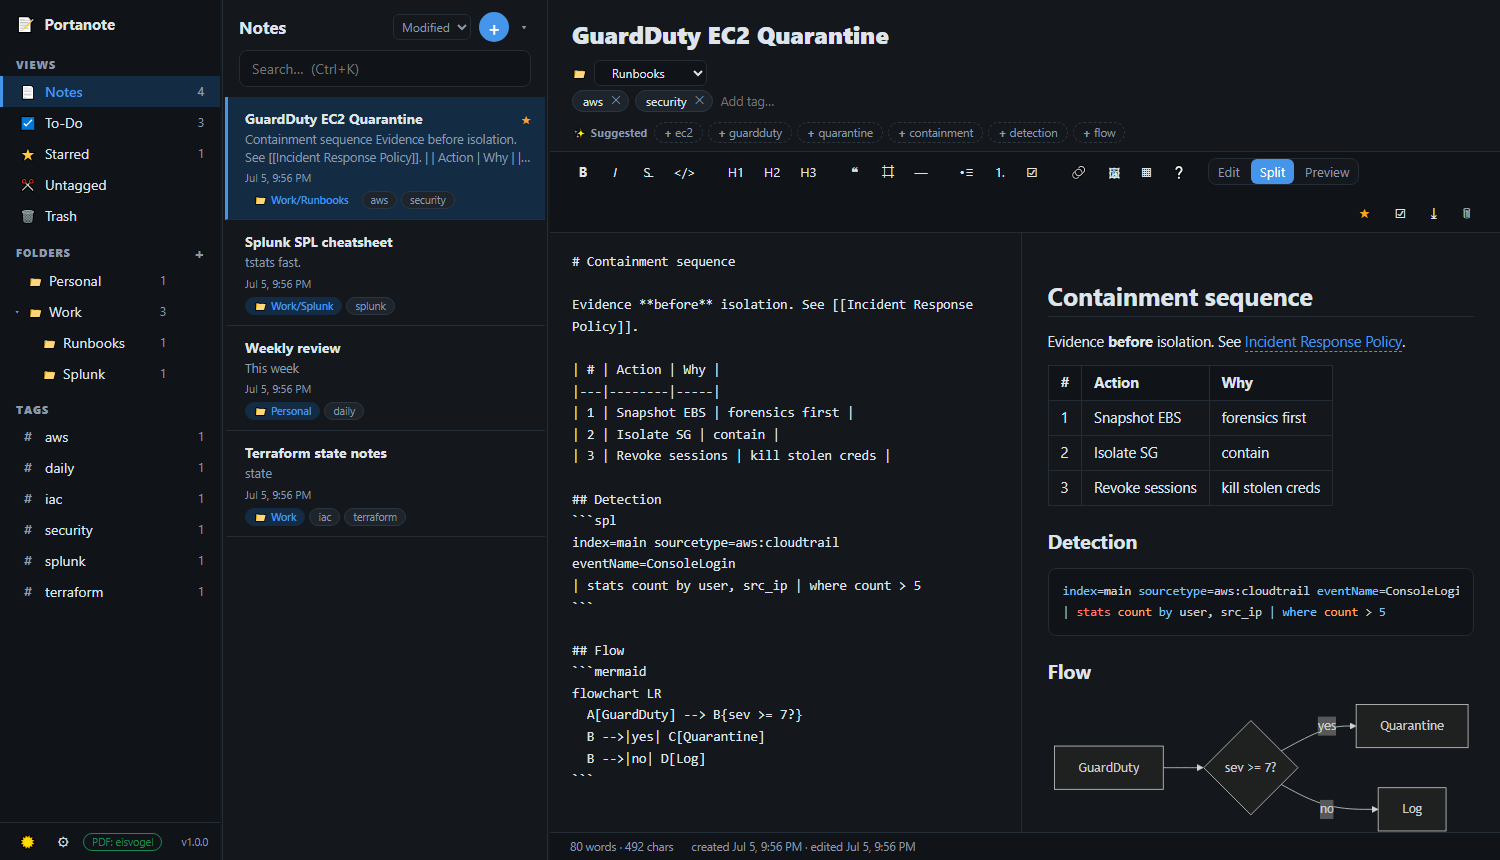
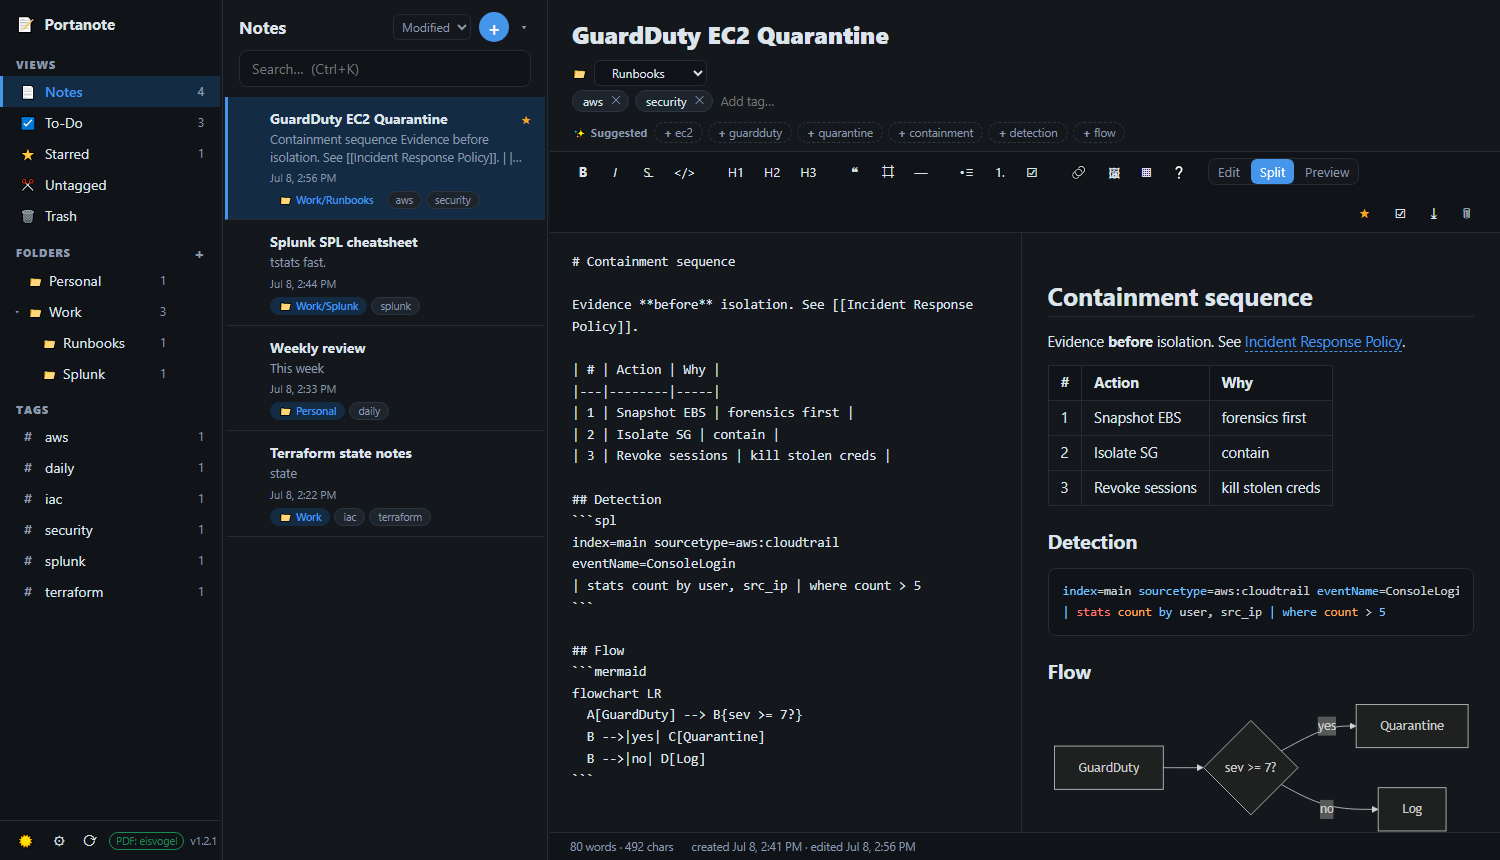
v1.2.1: refresh screenshots; docs for sync; footer spacing fix
Regenerate all three screenshots from a live v1.2.1 instance (directory
folders, the new sidebar sync button, current version label). Add a
"Sync with disk" section to the README. Tighten the sidebar footer
spacing so the PDF badge stays on one line now that the sync button
shares the row.

diff --git a/ui/app.css b/ui/app.css
@@ -61,8 +61,8 @@ input,select,textarea{font:inherit;color:inherit;}
 #folderlist a:hover .folder-x{opacity:1;}
 .folder-x:hover{background:var(--danger);color:#fff;}
 .folder-empty{padding:2px 16px 6px 20px;font-size:11.5px;color:var(--muted);font-style:italic;}
-.side-foot{border-top:1px solid var(--line);padding:8px 12px;display:flex;align-items:center;gap:8px;}
-.side-foot .badge{font-size:10.5px;border:1px solid var(--line);border-radius:10px;padding:1px 8px;color:var(--muted);}
+.side-foot{border-top:1px solid var(--line);padding:8px 10px;display:flex;align-items:center;gap:6px;}
+.side-foot .badge{font-size:10.5px;border:1px solid var(--line);border-radius:10px;padding:1px 6px;color:var(--muted);white-space:nowrap;}
 .side-foot .badge.on{color:#1a8a53;border-color:#1a8a53;}
 .side-foot .ver{margin-left:auto;font-size:10.5px;color:var(--muted);}
 #themeBtn{font-size:14px;}

diff --git a/main.go b/main.go
@@ -18,7 +18,7 @@ import (
 	"runtime"
 )
 
-const version = "1.2.0"
+const version = "1.2.1"
 
 //go:embed all:ui
 var uiEmbed embed.FS

diff --git a/README.md b/README.md
@@ -161,6 +161,10 @@ Portanote renders GitHub-Flavored Markdown. The `❔` toolbar button opens a ful
 
 Folders are `/`-separated paths (`Work/Runbooks/AWS`) shown as a collapsible tree. The `+` by the *Folders* header makes a new one (use `/` to nest); hover a folder for a `＋` (add subfolder) and `✕` (delete). Double-click to rename. Drag notes from the list onto a folder to move them. Deleting a folder makes its notes uncategorized — it never deletes notes.
 
+### Sync with disk (⟳)
+
+Since folders and notes are just directories and `.md` files, you can reorganize them with any tool you like — File Explorer, Finder, git, a script. Click the `⟳` button in the sidebar footer afterwards and Portanote re-indexes the whole notes folder, adopting everything you added, edited, moved, or deleted; the button flashes the number of changes it found. (A restart does the same thing.)
+
 ### Tags & suggestions
 
 Add tags in the tag row under a note's title. As you write, a **✨ Suggested** row proposes tags derived from the note's title and headers — click one to accept. Suggestions are computed locally; nothing leaves your machine.